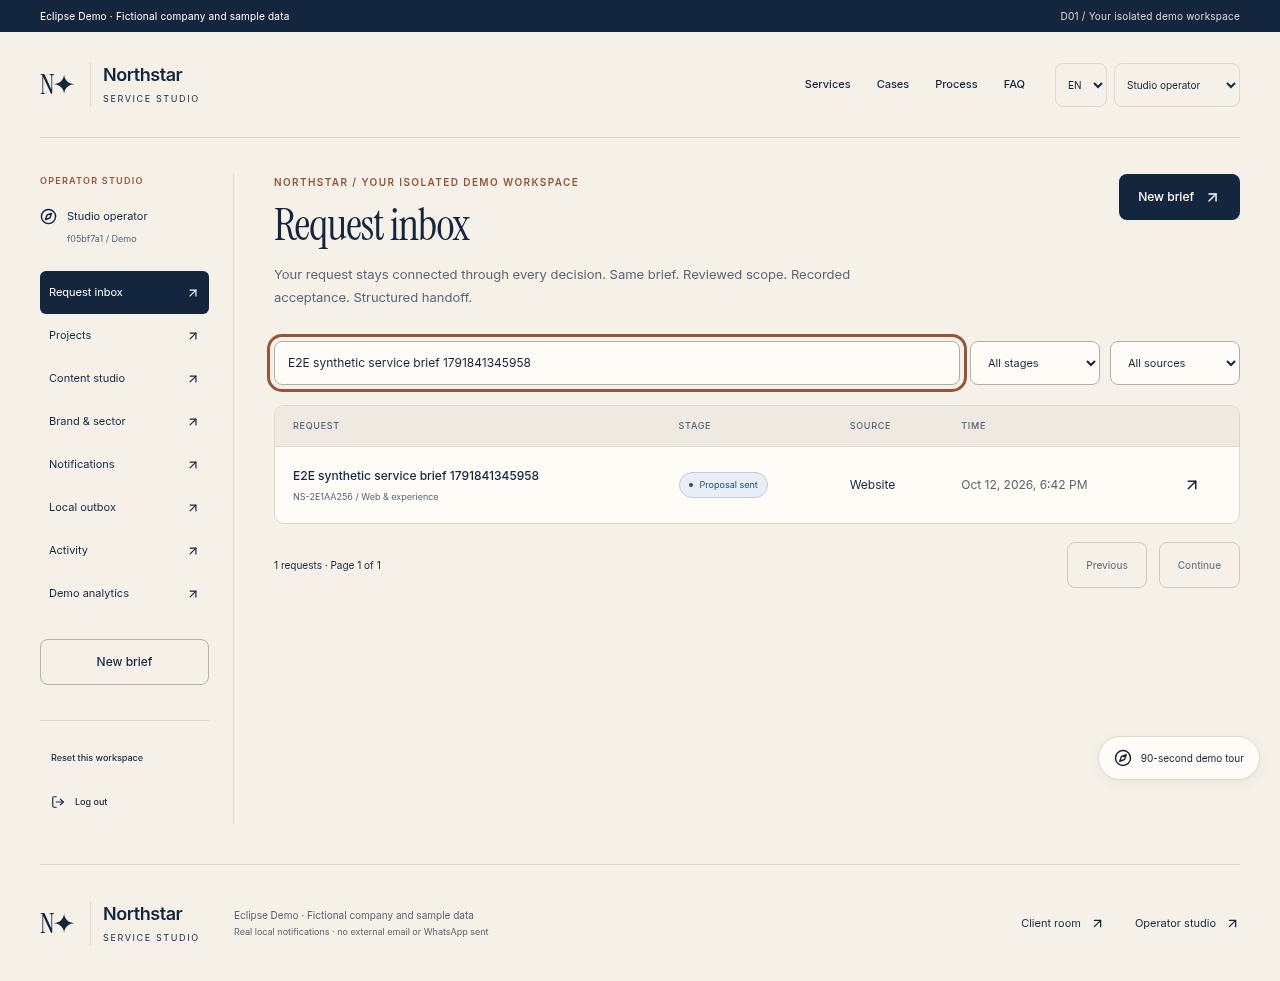
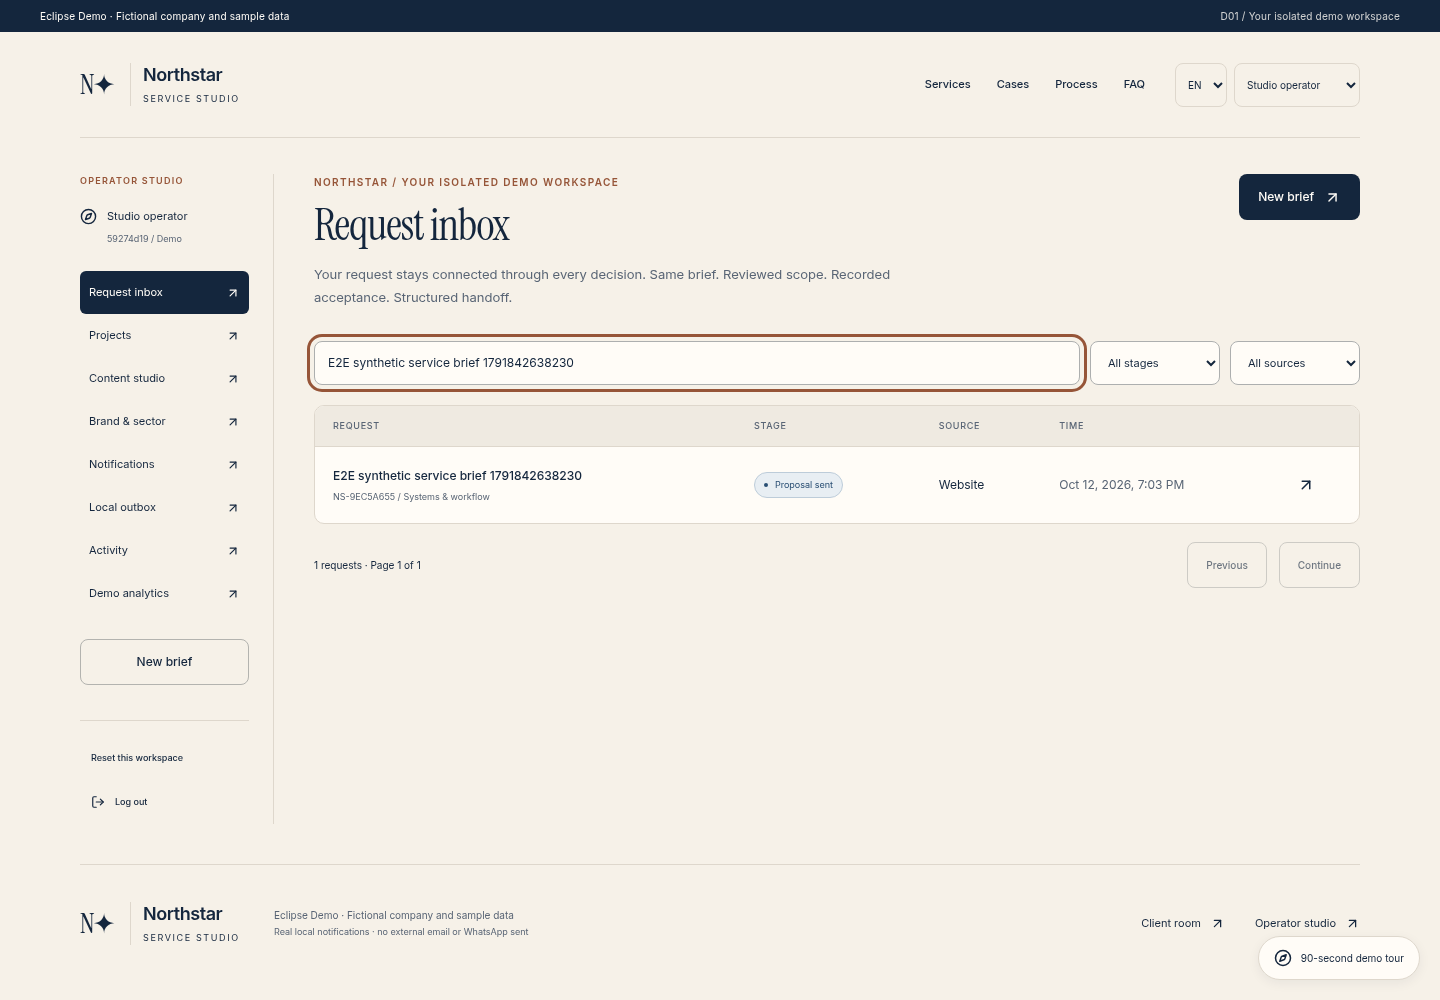
Record clean-checkout QA and final demo evidence

diff --git a/docs/qa-report.md b/docs/qa-report.md
@@ -19,11 +19,11 @@ Date: 2026-10-12 UTC. No deployment, external infrastructure or messages. All da
 | `npm run test` | 25 passed: 9 domain/config/format tests + 16 PostgreSQL HTTP integration cases |
 | `npm run build` | Passed compiled API/worker/migrator, ten exported routes plus 404, CSP hashes and Hostinger/Pages headers |
 | `node apps/api/dist/migrate.mjs` | Executed successfully; compiled API/readiness also started and checked |
-| `npm run test:e2e` | Five main scenarios passed; additional mobile/reduced-motion/keyboard brief+acceptance and 200% equivalent viewport check passed separately |
+| `npm run test:e2e` | Six scenarios; final clean-checkout result recorded below |
 | `npm audit --omit=dev` | Last observed: 0 reported production vulnerabilities after ORM update |
 | `node scripts/lighthouse.mjs` | Actual JSON reports in evidence; final repeated score table recorded below |
 
-The final clean checkout/video evidence is being recorded; see status for completion. Earlier failures were corrected and rerun: initial fixed-price test selected a random catalog row, a disabled-task selector was wrong, language navigation/autosave had genuine issues, contrast during reveal and responsive labels/layout needed fixes, and intercepted HTML caused Chromium loopback policy failure. CSP is now tested through real HTTP headers without weakening CORS/CSRF. CMS QA targets the active Digital profile rather than a random item from other catalogs.
+Video is recorded (71.48 seconds). Clean checkout verification details are recorded below. Earlier failures were corrected and rerun: initial fixed-price test selected a random catalog row, a disabled-task selector was wrong, language navigation/autosave had genuine issues, contrast during reveal and responsive labels/layout needed fixes, and intercepted HTML caused Chromium loopback policy failure. CSP is now tested through real HTTP headers without weakening CORS/CSRF. CMS QA targets the active Digital profile rather than a random item from other catalogs.
 
 ## Meaningful verified behavior
 
@@ -40,3 +40,13 @@ Responsive checks: 360, 390, 768, 1024, 1440 px; page overflow assertions and na
 Lighthouse uses local compiled/static services, actual cookies for operator, Chromium headless, default mobile simulated throttling and no storage reset. Final measured scores: public Performance 100 / Accessibility 100 / Best practices 96 / SEO 100; operator 100 / 100 / 100 / 100. CLS public 0.039, operator 0. Public best-practices deviation is Chrome reporting a CSP issue in its Issues panel; the actual CSP hydration/workflow test passes and the app policy was kept enabled. JSON reports are retained. Scores are local observations, not production guarantees.
 
 Not tested: hosted Hostinger/Pages + Render cookie/domain topology, Neon connection, production distributed traffic, malware scanner, real owner/invitation flow, real messaging/payment/calendar/LLM. CI configuration is supplied but no remote GitHub Actions run has occurred. Automatic retention deletion/garbage collection is not provided; expired/reset history/files stay inaccessible for review. Storage and security production decisions are explicit in the runbook/integration matrix.
+
+## Clean checkout verification
+
+Tested source commit: `b635e9da05f21933f5e62f3c3b22456cf860c9a5`. Used an actual `git clone --no-local` of that local commit to `/workspace/Northstar-clean-check` (not a remote GitHub clone; no push was authorized). Installed with the tracked lockfile using `npm ci` (504 packages, 11 seconds). Created a separate fresh `northstar_clean_check` database in the dedicated Northstar PostgreSQL instance. Copied env example privately with only its DB name changed. Ran migration, diagnostic seed, lint, typecheck, all 25 domain/DB tests and full build successfully. Both original preview services were stopped before clean-checkout Playwright started its own compiled API/static+CSP services on the standard ports, so the new DB/runtime were used rather than reused original services.
+
+Final browser result: all six tests passed (45.1 seconds), including new brief → V1 → comment → V2 → actual diff → exact alternative acceptance → project/tasks → authorized PDF, reload/isolation, mobile keyboard/reduced motion/effective 200% layout, real CSP and live CMS/profile changes. CI workflow is prepared; these are local checks, not a remote GitHub Actions result. npm ci emitted dependency deprecation notices; the production vulnerability audit reported zero.
+
+## Recorded demonstration
+
+`docs/evidence/northstar-demo.mp4` and `.webm`: 71.48 seconds; MP4 2,158,574 bytes. Recorded with Playwright driving an isolated synthetic workspace through real API/DB, with six deliberate seven-second reading pauses, then encoded locally with ffmpeg. No narration, fabricated screen data, public hosting or external service effects. Each capture/recording may use a different isolated workspace; continuity IDs remain the same within each individual business walkthrough.

diff --git a/docs/status.md b/docs/status.md
@@ -1,13 +1,15 @@
-# Northstar Service Studio — construction
+# Northstar Service Studio — Revisión Ignacio
 
-Repository: Toti-Gauna/Northstar-studio, initially empty. The three supplied Notion sources were fetched on 2026-10-12. The user's current specification takes precedence over historic priority and implementer assignments.
+Repository: Toti-Gauna/Northstar-studio, cloned empty. Implementation committed locally on `codex/northstar-service-studio`; no GitHub push, site publication, external infrastructure, accounts or messages. No other agents/projects/databases were used.
 
-Current step: final QA/documentation/clean checkout verification. No deployment or external infrastructure created. No other projects touched.
+Implemented: all ten product differentiations and public/client/operator surfaces; TypeScript Next static export, compiled Express API, real PostgreSQL migrations/seeds, private uploads/PDF, exact immutable proposal versions/options, atomic acceptance/project/tasks, CMS, English/Spanish, three sector kits, currency/timezone/brand preview, durable local inbox/outbox/reminders/activity/analytics, guided tour/card, deployment preparation and CI.
 
-Stack: npm workspaces, TypeScript, Next static export, Express, PostgreSQL 17, Drizzle. Docker daemon available. Node observed: 24.19.0.
+Verified: source commit `b635e9da05f21933f5e62f3c3b22456cf860c9a5` cloned locally with `git clone --no-local` to `/workspace/Northstar-clean-check`. Fresh independent `northstar_clean_check` database inside dedicated project PostgreSQL 17.11. npm ci, migrate, diagnostic seed, lint/typecheck/build, 25 domain/DB tests and 6 exported-build Playwright scenarios all passed. Original services were stopped before the clean runtime ran. Source is unchanged after that tested commit; subsequent commits finalize only documentation/evidence.
 
-Implemented: public web, guided brief/server draft/estimate/uploads, client/operator portals, proposal drafts/sent immutable versions/alternatives/diff/PDF, exact acceptance and transaction handoff, CMS, brand/sector/language/currency/timezone, local inbox/outbox/worker/activity/analytics, tour/card, prepared deployment and CI.
+Evidence: desktop/mobile captures and actual accepted PDF from the clean run in docs/evidence; 71.48-second MP4/WebM recording of a real synthetic workspace; axe home/brief/operator zero violations, one incomplete home item for human review; Lighthouse public 100/100/96/100 and operator 100/100/100/100, with raw JSON retained. QA details and limits: docs/qa-report.md.
 
-Last checks: lint/typecheck/build passed; 25 domain/DB tests passed (9 domain + 16 integration). All five Playwright scenarios passed against compiled API and static export with real CSP headers. Axe home/brief/operator zero violations (home has one incomplete item requiring human interpretation). Compiled migration runner and readiness checked. Latest Lighthouse reports and recording are in evidence; final clean checkout verification in progress.
+Run from root: `npm ci`, copy .env.example to .env only if missing, `docker compose up -d db`, `npm run db:migrate`, `npm run dev`. For exported frontend: `npm run build && npm run serve`. Reconciliation: `npm run worker` after build. Tests: `npm run test && npm run test:e2e`. README/runbook document exact env and deployment.
 
-Active local services at time of writing: compiled API 4000, static export+CSP server 3000, dedicated Docker PostgreSQL 5434. No GitHub push or deployment. Remaining: clean-clone install/fresh DB verification and final video/documentation recording. No access blocks the local demo. Production origins/cookies/Neon/Render/durable disk/retention and identity/invitation policy require Ignacio review; no provisioning is authorized in this task.
+No local access blockers or unfinished demo modules. External email/WhatsApp/payment/calendar/LLM/certified signing are absent and not claimed. No deployed URL. Production review still needs brand/prices/terms/cases, real identity/invitation policy, native zoom/screen-reader/cross-browser QA, CSP issue interpretation, same-site HTTPS origins/cookies, independent Neon/Render/durable disk permissions/billing, storage retention/cleanup/monitoring and backups. Expired/reset history is inaccessible and retained for review.
+
+Preview API/static servers have been stopped after QA. Dedicated Docker DB remains available locally; clean verification checkout/database are separate temporary evidence environments. Do not rebuild from scratch: resume from this branch and the README. State: awaiting Ignacio review, not automatically approved or publicly available.

diff --git a/README.md b/README.md
@@ -39,6 +39,6 @@ Next.js static routes load published content and authorized records from Express
 
 English/Spanish dictionaries and three catalogs share the same screens. Brand/profile/currency/timezone can be previewed and saved in the operator workspace. Historical snapshots remain unchanged. ARS prices are independent catalog values; no exchange rate is implied.
 
-Documentation: [scope](docs/scope.md), [architecture](docs/architecture.md), [API](docs/api.md), [runbook](docs/runbook.md), [QA](docs/qa-report.md), [status](docs/status.md), [integration matrix](docs/integration-matrix.md), [customization](docs/customization-playbook.md), [90-second demo script](docs/demo-script.md). Actual browser captures and a generated PDF are in [docs/evidence](docs/evidence).
+Documentation: [scope](docs/scope.md), [architecture](docs/architecture.md), [API](docs/api.md), [runbook](docs/runbook.md), [QA](docs/qa-report.md), [status](docs/status.md), [integration matrix](docs/integration-matrix.md), [customization](docs/customization-playbook.md), [90-second demo script](docs/demo-script.md). Actual browser captures, a generated PDF and a [71-second recording](docs/evidence/northstar-demo.mp4) are in [docs/evidence](docs/evidence).
 
 This is a local demo for Ignacio's review. External messaging, payments, certified signatures, production accounts, hosted URLs and commercial results are not provided. Review deployment origins/cookies, durable storage, retention, costs and production identity needs before sharing publicly.

diff --git a/docs/evidence/README.md b/docs/evidence/README.md
@@ -1,0 +1,9 @@
+# Actual application evidence
+
+Captures/PDF were generated by the successful clean-checkout Playwright run against compiled API, static export with real CSP and a fresh PostgreSQL database. Home desktop is 1440px; home 360/768 snapshots and 360/390 mobile app captures are named by viewport/surface. Tablet/1024 checks also ran. Proposal comparison includes actual changed prices/scope; project is created by accepting one exact option. The PDF is downloaded with authorization.
+
+[71.48-second MP4](northstar-demo.mp4) · [WebM](northstar-demo.webm) · [Accepted-version PDF](accepted-proposal.pdf)
+
+Recordings and captures use separate synthetic workspaces, so their IDs may differ; every individual walkthrough preserves its own reference end to end. No capture was drawn outside the app or populated with unpersisted screen-only data. Video is an automated QA walkthrough with reading pauses, not a live human typing claim.
+
+Lighthouse JSON: public/operator, Chromium 154 on local services with default mobile simulation. Public 100 performance/100 accessibility/96 best practices/100 SEO; operator all 100. The public CSP Issues-panel note remains documented, with actual CSP hydration/flow tests passing. Axe scans show zero violations for home/brief/operator and one incomplete item on home. These reports do not certify WCAG or production security.

diff --git a/docs/demo-script.md b/docs/demo-script.md
@@ -20,3 +20,5 @@ For a fast live presentation, prepare a synthetic brief/V1 in the same workspace
 - Referral/in-person: choose Architecture or Technical Services as appropriate, discuss required site/equipment information and what the client must provide. Keep company/cases labeled fictional.
 
 The downloadable demo card lists verified local functions. It does not export workspace counts as revenue, conversion or ROI. Review copy and pricing with Ignacio before any outreach.
+
+The delivered [71-second recorded walkthrough](evidence/northstar-demo.mp4) uses the actual application and synthetic PostgreSQL records. It is an automated QA recording with reading pauses, not a claim that a person typed the entire flow live.
